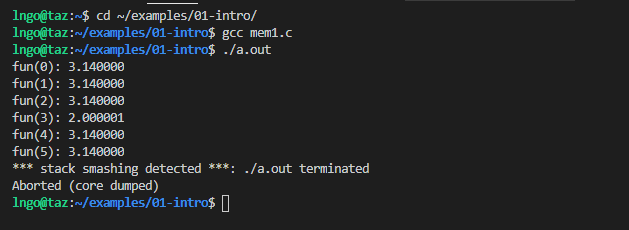
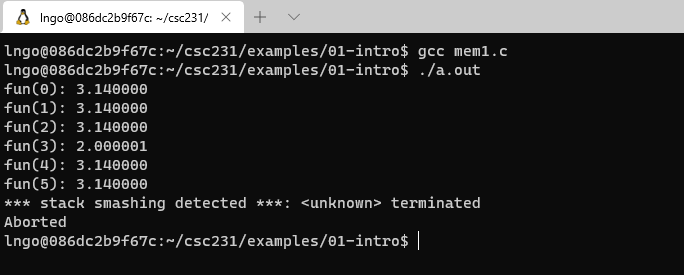
updating csc231 for spring 2021

Changed region(s): [[0.0, 0.0, 1.0, 0.913]]

diff --git a/_episodes/02-intro-to-c.md b/_episodes/02-intro-to-c.md
@@ -67,20 +67,42 @@ previously known languages."
 
 > ## How Java programs run
 >
-> <img src="../assets/figure/guide/java.png" alt="Java programs" style="height:400px">
+> <img src="../fig/02-c/java.png" alt="Java programs" style="height:400px">
 {: .slide}
 
 > ## How C programs run
 >
-> <img src="../assets/figure/guide/c.png" alt="C programs" style="height:400px">
+> <img src="../fig/02-c/c.png" alt="C programs" style="height:400px">
 {: .slide}
+
 
 > ## Hands-on 1: Getting started
 >
-> - Connect VSCode to `taz.cs.wcupa.edu`. 
-> - Navigate to your home directory.
-> - Open a terminal
+> - Open a terminal (Windows Terminal or Mac Terminal).  
+> - Reminder: It is `podman` on Windows and `docker` on Mac. Everything else 
+> is the same!. 
+> - Launch the container: 
+>
+> > ## Windows:
+> >
+> > ~~~
+> > $ podman run --rm --userns keep-id --cap-add=SYS_PTRACE --security-opt seccomp=unconfined -it -p 2222:22 -v /mnt/c/csc231:/home/$USER/csc231:Z localhost/csc-container /bin/bash
+> > ~~~
+> > {: .language-bash}
+> >
+> {:.slide}
+>
+> > ## Mac:
+> >
+> > ~~~
+> > $ podman run --rm --userns keep-id --cap-add=SYS_PTRACE --security-opt seccomp=unconfined -it -p 2222:22 -v /Users/$USER/csc231:/home/$USER/csc231:Z localhost/csc-container /bin/bash
+> > ~~~
+> > {: .language-bash}
+> >
+> {:.slide}
+> 
 {: .slide}
+
 
 > ## Hands-on 2: Setup directory
 >
@@ -88,62 +110,58 @@ previously known languages."
 > then change into that directory.
 >
 > ~~~
-> $ cd
+> $ cd ~/csc231
 > $ pwd
 > $ mkdir intro-c
 > $ ls
 > $ cd intro-c
+> $ pwd
 > ~~~
 > {: .language-bash}
 > 
-> <img src="../assets/figure/guide/02.png" alt="create intro-c directory" style="height:200px">
+> <img src="../fig/02-c/02.png" alt="create intro-c directory" style="height:250px">
 >
 {: .slide}
+
 
 > ## Hands-on 3: Create hello.c
 >
-> - In the **EXPLORER** window, right-click on `intro-c` and select `New File`.
-> - Type `hello.c` as the file name and hits Enter. 
-> - Enter the following source code in the editor windows:
-> - Save the file when you are done: 
->   - `Ctrl-S` for Windows/Linux
->   - `Command-S` for Macs
-> - **Memorize your key-combos!**.
+> - Inside the terminal, make suse that you are still inside
+> `intro-c`, then use `nano` to create `hello.c`with the source code below. 
 >
 > ~~~
-> /*
->  * File: hello.c
->  */
-> #include <stdio.h>
-> int main(int argc, char *argv[]) {
->   printf("Hello world!\n");
->   return 0;
-> }
+> $ pwd
+> $ nano intro-c
 > ~~~
-> {: .language-c}
+> {: .language-bash}
+>
+> <script src="https://gist.github.com/linhbngo/d1e9336a82632c528ea797210ed0f553.js?file=hello.c"></script>
 > 
-> <img src="../assets/figure/guide/03.png" alt="create hello.c" style="height:700px">
 >
-{: .slide}
-
-> ## What's in the code?
+> - Once finished editing in `nano`:
+>   - first hit `Ctrl-X` (same for both Windows and Mac). 
+>   - Next hit `Y` to save modified buffer (new contents). 
+>   - Hit `Enter` to save to the same file name as what you opened with. 
+> - **Memorize your key-combos!**.
+> 
+> <img src="../fig/02-c/03.png" alt="Creating hello.c using nano" style="height:550px">
 >
-> - Line 1-3: Comments, similar to Java.
-> - Line 4: Standard C library for I/O, similar to Java's `import`.
-> - Line 5-8: Function declaration for `main`:
->   - Line 5: 
+> ### What's in the code?
+>
+> - Line 1: Standard C library for I/O, similar to Java's `import`.
+> - Line 2-4: Function declaration/definition for `main`:
+>   - Line 2: 
 >     - return type: `int`
 >     - function name: `main`
 >     - parameter list: 
 >        - `argc`: number of command line arguments.
 >        - `*argv[]`: pointers to array of command line argument strings. 
->    - Line 6: Invoke builtin function `printf` to print out  string `Hello world!`
+>    - Line 3: Invoke builtin function `printf` to print out  string `Hello world!`
 >    with an end-of-line character `\n`. This is similar to `System.out.printf`.
->    - Line 7: Exit a successfully executed program with a return value of 0. 
+>    - Line 4: Exit a successfully executed program with a return value of 0. 
 >
 > {: .language-c}
 > 
-> <img src="../assets/figure/guide/04.png" alt="examine hello.c code" style="height:300px">
 >
 {: .slide}
 
@@ -154,32 +172,32 @@ previously known languages."
 > - Before compile, make sure that you are still inside `intro-c` in the terminal. 
 >
 > ~~~
-> $ pwd
 > $ ls
+> $ pwd
 > $ gcc -o hello hello.c
 > $ ls
 > $ ./hello
 > ~~~
 > {: .language-bash}
 > 
-> <img src="../assets/figure/guide/05.png" alt="compile and run hello.c" style="height:300px">
+> <img src="../fig/02-c/04.png" alt="Creating hello.c using nano" style="height:350px">
 >
 {: .slide}
 
 
-> ## Hands-on 4: Compile and show everything
+> ## Hands-on 5: Compile and show everything
 >
 > - There are a number of steps from C codes to executable binaries.  
 >
 > ~~~
-> $ ls
+> $ ls -l
 > $ gcc -save-temps -o hello2 hello.c
 > $ ls -l
 > $ ./hello2
 > ~~~
 > {: .language-bash}
 > 
-> <img src="../assets/figure/guide/06.png" alt="compile and run hello.c, keeping intermediate files" style="height:300px">
+> <img src="../fig/02-c/05.png" alt="compile and run hello.c, keeping intermediate files" style="height:400px">
 >
 {: .slide}
 
@@ -189,14 +207,14 @@ previously known languages."
 > - `hello.i`: generated by pre-processor
 > - `hello.s`: generated by compiler.
 > - `hello.o`: generated by assembler.
-> - `hello`: executable, generated by linker.
+> - `hello` (or `hello2`): executable, generated by linker.
 > 
-> <img src="../assets/figure/guide/07.png" alt="hello.c compilation process" style="height:700px">
+> <img src="../fig/02-c/06.png" alt="hello.c compilation process" style="height:700px">
 >
 {: .slide}
 
 
-> ## Hands-on 5: View files
+> ## Hands-on 6: View files
 >
 > - For `hello.i` and `hello.s`, they can be view on the editor. 
 > - For `hello.o` and `hello`, we need to dump the binary contents first. 

diff --git a/_episodes/01-introduction.md b/_episodes/01-introduction.md
@@ -38,18 +38,41 @@ keypoints:
 
 > ## Hands-on 1: Getting started
 >
-> - Log into `taz.cs.wcupa.edu`.  
-> - Clone the `examples` repository: 
+> - Open a terminal (Windows Terminal or Mac Terminal).  
+> - Reminder: It is `podman` on Windows and `docker` on Mac. Everything else 
+> is the same!. 
+> - Launch the container: 
+>
+> > ## Windows:
+> >
+> > ~~~
+> > $ podman run --rm --userns keep-id --cap-add=SYS_PTRACE --security-opt seccomp=unconfined -it -p 2222:22 -v /mnt/c/csc231:/home/$USER/csc231:Z localhost/csc-container /bin/bash
+> > ~~~
+> > {: .language-bash}
+> >
+> {:.slide}
+>
+> > ## Mac:
+> >
+> > ~~~
+> > $ podman run --rm --userns keep-id --cap-add=SYS_PTRACE --security-opt seccomp=unconfined -it -p 2222:22 -v /Users/$USER/csc231:/home/$USER/csc231:Z localhost/csc-container /bin/bash
+> > ~~~
+> > {: .language-bash}
+> >
+> {:.slide}
+>
+> - Once inside the container, clone the `examples` repository, and 
+> compile and run the example: 
 >
 > ~~~
-> $ cd
+> $ cd csc231
 > $ git clone https://github.com/CSC231-WCU/examples.git
 > $ cd examples/01-intro
 > $ gcc -Wno-overflow nums.c
 > $ ./a.out
 > ~~~
 > {: .language-bash}
-> 
+>
 > <img src="../fig/01-intro/01.png" alt="Compile and run nums.c" style="height:300px">
 > 
 {: .slide}
@@ -61,7 +84,7 @@ keypoints:
 >   - Arithmetic operations have important mathematical properties. 
 > - Cannot assume all **usual** mathematical properties.
 >   - Due to finiteness of representations. 
->   - Integer operations satisfy **ring** properties: commutativity, associativity, distritubitivy.
+>   - Integer operations satisfy **ring** properties: commutativity, associativity, distributivity.
 >   - Floating point operations satisfy **ordering** properties: monotonicity, values of signs. 
 > - Observation
 >   - Need to understand which abstractions apply in which contexts. 
@@ -105,16 +128,15 @@ keypoints:
 
 > ## Hands-on 2: Memory referencing bug
 >
-> - Inside the `examples` directory on `taz.cs.wcupa.edu`.  
+> - We are still inside `examples\intro-01` directory from Hands-on 1.   
 >
 > ~~~
-> $ cd ~/examples/01-intro
 > $ gcc mem1.c
 > $ ./a.out
 > ~~~
 > {: .language-bash}
 > 
-> <img src="../fig/01-intro/02.png" alt="Compile and run mem1.c" style="height:300px">
+> <img src="../fig/01-intro/02.png" alt="Compile and run mem1.c" style="height:250px">
 > 
 {: .slide}
 
@@ -124,7 +146,7 @@ keypoints:
 > - C and C++ do not provide any memory protection
 >   - Out of bounds array references
 >   - Invalid pointer values
->   - Abuses of malloc/free
+>   - Abuses of `malloc`/`free`
 > - Can lead to nasty bugs
 >   - Whether or not bug has any effect depends on system and compiler
 >   - Action at a distance
@@ -152,16 +174,15 @@ keypoints:
 
 > ## Hands-on 3: Memory system performance
 >
-> - Inside the `examples` directory on `taz.cs.wcupa.edu`.  
+> - We are still inside `examples\intro-01` directory from Hands-on 1.  
 >
 > ~~~
-> $ cd ~/examples/01-intro
 > $ gcc mem2.c
 > $ ./a.out
 > ~~~
 > {: .language-bash}
 > 
-> <img src="../fig/01-intro/03.png" alt="Compile and run nums.c" style="height:300px">
+> <img src="../fig/01-intro/03.png" alt="Compile and run mem2.c" style="height:150px">
 > 
 {: .slide}
 
@@ -181,9 +202,9 @@ keypoints:
 
 > ## Layered Services
 >
-> - Direct communication between applications and hardware components are impractice due
+> - Direct communication between applications and hardware components are impractical due
 > to complexity. 
-> - Operating systems provide much-needed interfaces between applications and haward 
+> - Operating systems provide much-needed interfaces between applications and hardware 
 > through:
 >   - OS/application interface: `system calls`.
 >   - HW/SW interface: `x86 standard` and `device drivers`. 
@@ -192,7 +213,7 @@ keypoints:
 >   - are complex
 >   - meets specific requirements in aspects such as performance, security, or fault tolerance.
 >
-> <img src="../fig/01-intro/04.png" alt="Compile and run nums.c" style="height:300px">
+> <img src="../fig/01-intro/04.png" alt="Layered Service Design" style="height:300px">
 >
 {: .slide}
 

diff --git a/setup.md b/setup.md
@@ -147,9 +147,9 @@ command (`podman` versus `docker`). All subcommands for both engines are the sam
 > 
 > ~~~
 > $ podman image ls
-> $ mkdir /mnt/c/csc331
-> $ podman run --rm --userns keep-id --cap-add=SYS_PTRACE --security-opt seccomp=unconfined -it -p 2222:22 -v /home/$USER/csc331:/home/$USER/csc331:Z localhost/csc-container /bin/bash
-> $ touch csc331/test
+> $ mkdir /mnt/c/csc231
+> $ podman run --rm --userns keep-id --cap-add=SYS_PTRACE --security-opt seccomp=unconfined -it -p 2222:22 -v /home/$USER/csc231:/home/$USER/csc331:Z localhost/csc-container /bin/bash
+> $ touch csc231/test
 > ~~~
 > {: .language-bash}
 >
@@ -202,9 +202,9 @@ command (`podman` versus `docker`). All subcommands for both engines are the sam
 > 
 > ~~~
 > $ docker image ls
-> $ mkdir /Users/$USER/csc331
-> $ docker run --rm --userns=host --cap-add=SYS_PTRACE --security-opt seccomp=unconfined -it -p 2222:22 -v /Users/$USER/csc331:/home/$USER/csc331:Z csc-container /bin/bash
-> $ touch csc331/test
+> $ mkdir /Users/$USER/csc231
+> $ docker run --rm --userns=host --cap-add=SYS_PTRACE --security-opt seccomp=unconfined -it -p 2222:22 -v /Users/$USER/csc231:/home/$USER/csc231:Z csc-container /bin/bash
+> $ touch csc231/test
 > ~~~
 > {: .language-bash}
 >
